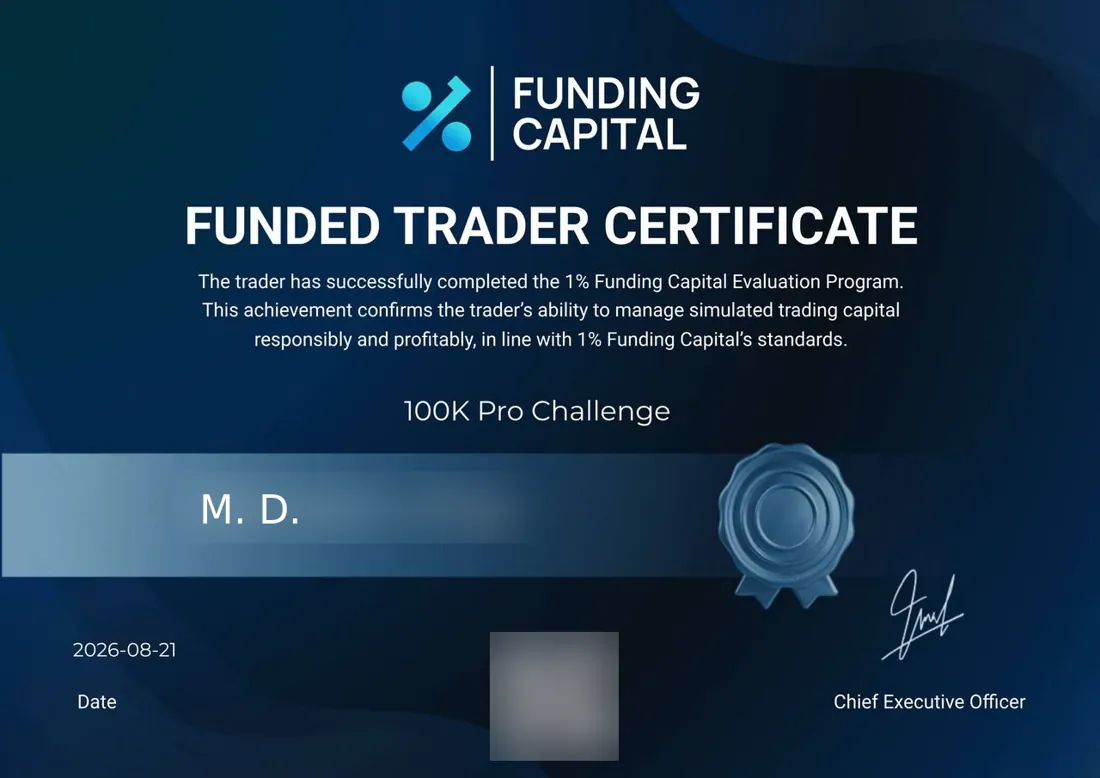
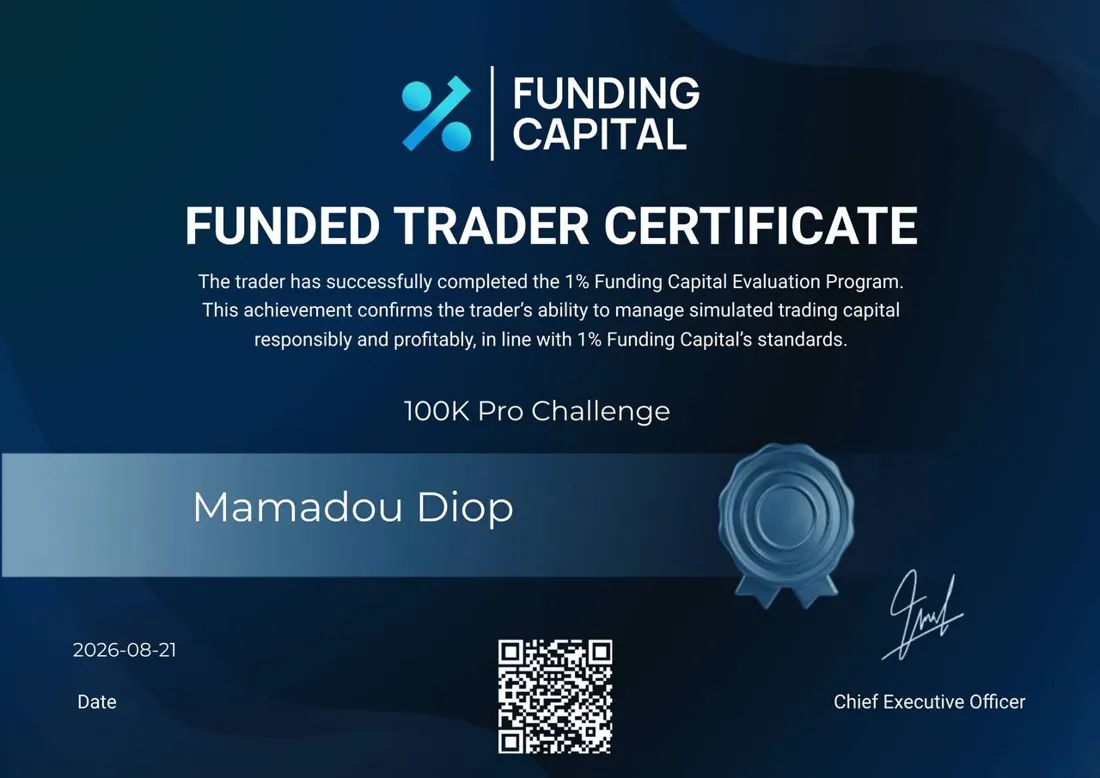
Captures et certificats de la communauté sans floutage
Noms, avatars et certificats affichés tels quels pour plus d'authenticité.
Seul le numéro de téléphone personnel d'un membre reste masqué.

Claude-Session: https://claude.ai/code/session_01HFC5sAaJSdNrF4Saeow7DH

Changed region(s): [[0.4327, 0.8021, 0.5873, 0.9871], [0.1545, 0.617, 0.4636, 0.6787]]

diff --git a/index.html b/index.html
@@ -321,7 +321,7 @@
   <div class="phones" aria-label="Captures du groupe"><div class="phones-track"><a class="phone" href="assets/img/communaute/chat1.webp" data-lightbox aria-label="Analyse partagée et trade validé" data-al-fr="Analyse partagée et trade validé" data-al-en="Shared analysis and a validated trade"><img src="assets/img/communaute/chat1.webp" width="589" height="1280" loading="lazy" decoding="async" alt="Analyse partagée et trade validé" data-alt-fr="Analyse partagée et trade validé" data-alt-en="Shared analysis and a validated trade"><span class="phone-cap"><span class="fr">Analyse partagée et trade validé</span><span class="en">Shared analysis and a validated trade</span></span></a><a class="phone" href="assets/img/communaute/chat2.webp" data-lightbox aria-label="Félicitations entre membres" data-al-fr="Félicitations entre membres" data-al-en="Members congratulating each other"><img src="assets/img/communaute/chat2.webp" width="589" height="1280" loading="lazy" decoding="async" alt="Félicitations entre membres" data-alt-fr="Félicitations entre membres" data-alt-en="Members congratulating each other"><span class="phone-cap"><span class="fr">Félicitations entre membres</span><span class="en">Members congratulating each other</span></span></a><a class="phone" href="assets/img/communaute/chat3.webp" data-lightbox aria-label="Entrée et objectif commentés" data-al-fr="Entrée et objectif commentés" data-al-en="Entry and target discussed"><img src="assets/img/communaute/chat3.webp" width="589" height="1280" loading="lazy" decoding="async" alt="Entrée et objectif commentés" data-alt-fr="Entrée et objectif commentés" data-alt-en="Entry and target discussed"><span class="phone-cap"><span class="fr">Entrée et objectif commentés</span><span class="en">Entry and target discussed</span></span></a><a class="phone" href="assets/img/communaute/chat4.webp" data-lightbox aria-label="Retour d’un membre sur sa journée" data-al-fr="Retour d’un membre sur sa journée" data-al-en="A member sharing his day"><img src="assets/img/communaute/chat4.webp" width="589" height="1280" loading="lazy" decoding="async" alt="Retour d’un membre sur sa journée" data-alt-fr="Retour d’un membre sur sa journée" data-alt-en="A member sharing his day"><span class="phone-cap"><span class="fr">Retour d’un membre sur sa journée</span><span class="en">A member sharing his day</span></span></a><a class="phone" href="assets/img/communaute/chat5.webp" data-lightbox aria-label="Objectif atteint sur une zone étudiée" data-al-fr="Objectif atteint sur une zone étudiée" data-al-en="Target reached on a studied zone"><img src="assets/img/communaute/chat5.webp" width="589" height="1280" loading="lazy" decoding="async" alt="Objectif atteint sur une zone étudiée" data-alt-fr="Objectif atteint sur une zone étudiée" data-alt-en="Target reached on a studied zone"><span class="phone-cap"><span class="fr">Objectif atteint sur une zone étudiée</span><span class="en">Target reached on a studied zone</span></span></a><a class="phone" href="assets/img/communaute/chat6.webp" data-lightbox aria-label="Entraide et bonne humeur" data-al-fr="Entraide et bonne humeur" data-al-en="Support and good spirits"><img src="assets/img/communaute/chat6.webp" width="589" height="1280" loading="lazy" decoding="async" alt="Entraide et bonne humeur" data-alt-fr="Entraide et bonne humeur" data-alt-en="Support and good spirits"><span class="phone-cap"><span class="fr">Entraide et bonne humeur</span><span class="en">Support and good spirits</span></span></a><a class="phone" href="assets/img/communaute/chat1.webp" data-lightbox tabindex="-1" aria-hidden="true" aria-label="Analyse partagée et trade validé" data-al-fr="Analyse partagée et trade validé" data-al-en="Shared analysis and a validated trade"><img src="assets/img/communaute/chat1.webp" width="589" height="1280" loading="lazy" decoding="async" alt="Analyse partagée et trade validé" data-alt-fr="Analyse partagée et trade validé" data-alt-en="Shared analysis and a validated trade"><span class="phone-cap"><span class="fr">Analyse partagée et trade validé</span><span class="en">Shared analysis and a validated trade</span></span></a><a class="phone" href="assets/img/communaute/chat2.webp" data-lightbox tabindex="-1" aria-hidden="true" aria-label="Félicitations entre membres" data-al-fr="Félicitations entre membres" data-al-en="Members congratulating each other"><img src="assets/img/communaute/chat2.webp" width="589" height="1280" loading="lazy" decoding="async" alt="Félicitations entre membres" data-alt-fr="Félicitations entre membres" data-alt-en="Members congratulating each other"><span class="phone-cap"><span class="fr">Félicitations entre membres</span><span class="en">Members congratulating each other</span></span></a><a class="phone" href="assets/img/communaute/chat3.webp" data-lightbox tabindex="-1" aria-hidden="true" aria-label="Entrée et objectif commentés" data-al-fr="Entrée et objectif commentés" data-al-en="Entry and target discussed"><img src="assets/img/communaute/chat3.webp" width="589" height="1280" loading="lazy" decoding="async" alt="Entrée et objectif commentés" data-alt-fr="Entrée et objectif commentés" data-alt-en="Entry and target discussed"><span class="phone-cap"><span class="fr">Entrée et objectif commentés</span><span class="en">Entry and target discussed</span></span></a><a class="phone" href="assets/img/communaute/chat4.webp" data-lightbox tabindex="-1" aria-hidden="true" aria-label="Retour d’un membre sur sa journée" data-al-fr="Retour d’un membre sur sa journée" data-al-en="A member sharing his day"><img src="assets/img/communaute/chat4.webp" width="589" height="1280" loading="lazy" decoding="async" alt="Retour d’un membre sur sa journée" data-alt-fr="Retour d’un membre sur sa journée" data-alt-en="A member sharing his day"><span class="phone-cap"><span class="fr">Retour d’un membre sur sa journée</span><span class="en">A member sharing his day</span></span></a><a class="phone" href="assets/img/communaute/chat5.webp" data-lightbox tabindex="-1" aria-hidden="true" aria-label="Objectif atteint sur une zone étudiée" data-al-fr="Objectif atteint sur une zone étudiée" data-al-en="Target reached on a studied zone"><img src="assets/img/communaute/chat5.webp" width="589" height="1280" loading="lazy" decoding="async" alt="Objectif atteint sur une zone étudiée" data-alt-fr="Objectif atteint sur une zone étudiée" data-alt-en="Target reached on a studied zone"><span class="phone-cap"><span class="fr">Objectif atteint sur une zone étudiée</span><span class="en">Target reached on a studied zone</span></span></a><a class="phone" href="assets/img/communaute/chat6.webp" data-lightbox tabindex="-1" aria-hidden="true" aria-label="Entraide et bonne humeur" data-al-fr="Entraide et bonne humeur" data-al-en="Support and good spirits"><img src="assets/img/communaute/chat6.webp" width="589" height="1280" loading="lazy" decoding="async" alt="Entraide et bonne humeur" data-alt-fr="Entraide et bonne humeur" data-alt-en="Support and good spirits"><span class="phone-cap"><span class="fr">Entraide et bonne humeur</span><span class="en">Support and good spirits</span></span></a></div></div>
   <div class="wrap mt-l">
     <div class="certs small"><a class="cert rv" href="assets/img/communaute/cert1.webp" data-lightbox aria-label="Certificat 100K"><img src="assets/img/communaute/cert1.webp" width="1100" height="778" loading="lazy" decoding="async" alt="Certificat de trader financé, challenge 100K" data-alt-fr="Certificat de trader financé, challenge 100K" data-alt-en="Funded trader certificate, 100K challenge"><span class="cert-tag"><span class="fr">Challenge</span><span class="en">Challenge</span> 100K</span></a><a class="cert rv" href="assets/img/communaute/cert2.webp" data-lightbox aria-label="Certificat 100K"><img src="assets/img/communaute/cert2.webp" width="1100" height="778" loading="lazy" decoding="async" alt="Certificat de trader financé, challenge 100K" data-alt-fr="Certificat de trader financé, challenge 100K" data-alt-en="Funded trader certificate, 100K challenge"><span class="cert-tag"><span class="fr">Challenge</span><span class="en">Challenge</span> 100K</span></a><a class="cert rv" href="assets/img/communaute/cert3.webp" data-lightbox aria-label="Certificat 50K"><img src="assets/img/communaute/cert3.webp" width="1100" height="778" loading="lazy" decoding="async" alt="Certificat de trader financé, challenge 50K" data-alt-fr="Certificat de trader financé, challenge 50K" data-alt-en="Funded trader certificate, 50K challenge"><span class="cert-tag"><span class="fr">Challenge</span><span class="en">Challenge</span> 50K</span></a><a class="cert rv" href="assets/img/communaute/cert4.webp" data-lightbox aria-label="Certificat 25K"><img src="assets/img/communaute/cert4.webp" width="1100" height="778" loading="lazy" decoding="async" alt="Certificat de trader financé, challenge 25K" data-alt-fr="Certificat de trader financé, challenge 25K" data-alt-en="Funded trader certificate, 25K challenge"><span class="cert-tag"><span class="fr">Challenge</span><span class="en">Challenge</span> 25K</span></a></div>
-    <p class="small muted proof-note"><svg class="ico" aria-hidden="true"><use href="#i-info"/></svg> <span class="fr">Captures réelles du groupe de la communauté ; noms, photos et numéros floutés. Les certificats ont été délivrés par une société tierce (1% Funding Capital) avec laquelle Global Market Investment n’a aucun partenariat. Ces résultats sont individuels, portent sur des comptes simulés et ne garantissent en rien les vôtres.</span><span class="en">Real screenshots from the community group; names, photos and numbers blurred. The certificates were issued by a third-party company (1% Funding Capital) with which Global Market Investment has no partnership. These results are individual, relate to simulated accounts and in no way guarantee yours.</span></p>
+    <p class="small muted proof-note"><svg class="ico" aria-hidden="true"><use href="#i-info"/></svg> <span class="fr">Captures réelles du groupe de la communauté. Les certificats ont été délivrés par une société tierce (1% Funding Capital) avec laquelle Global Market Investment n’a aucun partenariat. Ces résultats sont individuels, portent sur des comptes simulés et ne garantissent en rien les vôtres.</span><span class="en">Real screenshots from the community group. The certificates were issued by a third-party company (1% Funding Capital) with which Global Market Investment has no partnership. These results are individual, relate to simulated accounts and in no way guarantee yours.</span></p>
   </div>
 </section>
 

diff --git a/communaute.html b/communaute.html
@@ -211,7 +211,7 @@
       <p class="fr muted">Plusieurs membres de la communauté ont validé des challenges de 25K à 100K auprès d’une Prop Firm tierce, après un travail de préparation et de discipline.</p><p class="en muted">Several community members have passed 25K to 100K challenges with a third-party Prop Firm, after preparation and disciplined work.</p>
     </div>
     <div class="certs"><a class="cert rv" href="assets/img/communaute/cert1.webp" data-lightbox aria-label="Certificat 100K"><img src="assets/img/communaute/cert1.webp" width="1100" height="778" loading="lazy" decoding="async" alt="Certificat de trader financé, challenge 100K" data-alt-fr="Certificat de trader financé, challenge 100K" data-alt-en="Funded trader certificate, 100K challenge"><span class="cert-tag"><span class="fr">Challenge</span><span class="en">Challenge</span> 100K</span></a><a class="cert rv" href="assets/img/communaute/cert2.webp" data-lightbox aria-label="Certificat 100K"><img src="assets/img/communaute/cert2.webp" width="1100" height="778" loading="lazy" decoding="async" alt="Certificat de trader financé, challenge 100K" data-alt-fr="Certificat de trader financé, challenge 100K" data-alt-en="Funded trader certificate, 100K challenge"><span class="cert-tag"><span class="fr">Challenge</span><span class="en">Challenge</span> 100K</span></a><a class="cert rv" href="assets/img/communaute/cert3.webp" data-lightbox aria-label="Certificat 50K"><img src="assets/img/communaute/cert3.webp" width="1100" height="778" loading="lazy" decoding="async" alt="Certificat de trader financé, challenge 50K" data-alt-fr="Certificat de trader financé, challenge 50K" data-alt-en="Funded trader certificate, 50K challenge"><span class="cert-tag"><span class="fr">Challenge</span><span class="en">Challenge</span> 50K</span></a><a class="cert rv" href="assets/img/communaute/cert4.webp" data-lightbox aria-label="Certificat 25K"><img src="assets/img/communaute/cert4.webp" width="1100" height="778" loading="lazy" decoding="async" alt="Certificat de trader financé, challenge 25K" data-alt-fr="Certificat de trader financé, challenge 25K" data-alt-en="Funded trader certificate, 25K challenge"><span class="cert-tag"><span class="fr">Challenge</span><span class="en">Challenge</span> 25K</span></a></div>
-    <p class="small muted proof-note"><svg class="ico" aria-hidden="true"><use href="#i-info"/></svg> <span class="fr">Captures réelles du groupe de la communauté ; noms, photos et numéros floutés. Les certificats ont été délivrés par une société tierce (1% Funding Capital) avec laquelle Global Market Investment n’a aucun partenariat. Ces résultats sont individuels, portent sur des comptes simulés et ne garantissent en rien les vôtres.</span><span class="en">Real screenshots from the community group; names, photos and numbers blurred. The certificates were issued by a third-party company (1% Funding Capital) with which Global Market Investment has no partnership. These results are individual, relate to simulated accounts and in no way guarantee yours.</span></p>
+    <p class="small muted proof-note"><svg class="ico" aria-hidden="true"><use href="#i-info"/></svg> <span class="fr">Captures réelles du groupe de la communauté. Les certificats ont été délivrés par une société tierce (1% Funding Capital) avec laquelle Global Market Investment n’a aucun partenariat. Ces résultats sont individuels, portent sur des comptes simulés et ne garantissent en rien les vôtres.</span><span class="en">Real screenshots from the community group. The certificates were issued by a third-party company (1% Funding Capital) with which Global Market Investment has no partnership. These results are individual, relate to simulated accounts and in no way guarantee yours.</span></p>
   </div>
 </section>
 
